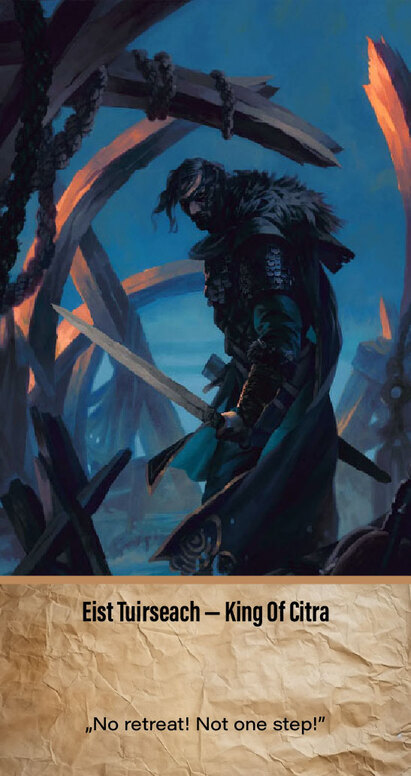
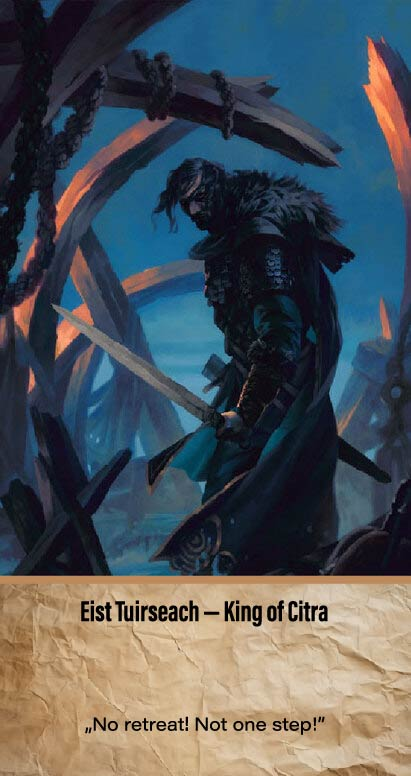
Gwent has been Polished!!

diff --git a/javascript/translations/strings/pl.js b/javascript/translations/strings/pl.js
@@ -2,7 +2,7 @@ STRNG["pl"] = {
     "TRANSLATED_BY": "DrMineword, Lambert, GamerMateusz",
     "_info": {
       "id": "Polski",
-      "translated": false, "msg": "Język Polski nie został jeszcze w pełni przetłumaczony!\n\nProsimy o cierpliwość\nNasi tłumacze: \"%s\"", tit: "Spolszczanie w trakcie!"
+      "translated": true, "msg": "Język Polski nie został jeszcze w pełni przetłumaczony!\n\nProsimy o cierpliwość\nNasi tłumacze: \"%s\"", tit: "Spolszczanie w trakcie!"
     },
   ability: {
     leader: "Zdolność Dowódcy",
@@ -658,12 +658,12 @@ STRNG["pl"] = {
     werewolf: "Wilkołak",
     wyvern: "Wywerna",
     toad: "Książę Ropuch",
-    francesca_silver: "Francesca Findabair — Queen of Dol Blathanna",
-    francesca_gold: "Francesca Findabair — the Beautiful",
-    francesca_copper: "Francesca Findabair — Daisy of the Valley",
-    francesca_bronze: "Francesca Findabair — Pureblood Elf",
-    francesca_hope_of_the_aen_seidhe:
-      "Francesca Findabair — Hope of the Aen Seidhe",
+francesca_silver: "Francesca Findabair — Królowa Dol Blathanna",
+francesca_gold: "Francesca Findabair — Piękna",
+francesca_copper: "Francesca Findabair — Stokrotka z Doliny",
+francesca_bronze: "Francesca Findabair — Czystej Krwi Elfka",
+francesca_hope_of_the_aen_seidhe:
+  "Francesca Findabair — Nadzieja Aen Seidhe",
     ciaran: "Ciaran aep Easnillien",
     barclay: "Barclay Els",
     dennis: "Dennis Cranmer",
@@ -692,16 +692,16 @@ STRNG["pl"] = {
     cerys: "Cerys",
     brokva_archer: "Łucznik klanu Brokva",
     dimun_pirate: "Pirat klanu Dimun",
-    shield_maiden_2: "Cerys — Clan Drummond Shield Maiden",
-    heymaey: "Clan Heymaey Skald",
-    tordarroch: "Clan Tordarroch Armorsmith",
-    craite_warrior: "Clan an Craite Warrior",
+    shield_maiden_2: "Cerys — Tarczowniczka klanu Drummond",
+    heymaey: "Skald klanu Heymaey",
+    tordarroch: "Płatnerz klanu Tordarroch",
+    craite_warrior: "Wojownik klanu an Craite",
     donar: "Donar an Hindar",
     draig: "Draig Bon-Dhu",
     ermion: "Ermion",
     hemdall: "Hemdall",
     hjalmar: "Hjalmar",
-    holger: "Holger Blackhand",
+    holger: "Holger Czarnoręki",
     kambi: "Kambi",
     light_longship: "Lekki Drakkar",
     madmad_lugos: "Szalony Lugos",
@@ -717,7 +717,7 @@ STRNG["pl"] = {
     crach_an_craite: "Crach an Craite",
     king_bran: "Król Bran",
     schirru: "Schirru",
-    gerry: "Żeralt znad Rzeki",
+    gerry: "Żeralt z Rzeki",
     lethosabotage: "Letho — Sabotażysta",
     aidhorn: "Sztandar Lyrii i Rivii",
     Gaunter_Leader: "Gaunter O'Dim",
@@ -738,10 +738,10 @@ STRNG["pl"] = {
     reveal_dopler: "Siły Uderzeniowe Dopplera",
     wshield: "Wiedźmini — Quen",
     quen: "Znaki Wiedźmińskie: Quen",
-    eist_tuirseach: "Eist Tuirseach — King Of Citra",
-    svalblod: "Svalblod Cult",
-    svalblod_change: "Svalblod Cult — Transformation",
-    Arnjolf_the_Patricide: "Arnjolf the Patricide",
+    eist_tuirseach: "Eist Tuirseach — Król Citry",
+    svalblod: "Kult Svalbloda",
+    svalblod_change: "Kult Svalbloda — Transformacja",
+    Arnjolf_the_Patricide: "Arnjolf Ojcobójca",
     aard: "Znaki Wiedźmińskie: Aard",
     yrden: "Znaki Wiedźmińskie: Yrden",
     igni: "Znaki Wiedźmińskie: Ignii",
@@ -766,7 +766,7 @@ STRNG["pl"] = {
     spirit: "Ascended Ancestor Spirit",
     danielle: "Dzieciuch — Danielle",
     redcrab: "Czerwony Krab",
-    crabspy: "KraboSzpieg",
+    crabspy: "Krabo-Szpieg",
     darkstorm: "Sztorm Ciemności",
     darkness_storm_leader: "Król Edenu",
     ranger: "Reassuring Ranger",
@@ -778,7 +778,7 @@ STRNG["pl"] = {
     vault_elder_s2e: "Elder of the Vault — Two Embers",
     fisstech: "Fisstech",
     sigi_reuven: "Sigi Reuven",
-    king_of_beggers: "King of Begger",
+    king_of_beggers: "Król Żebraków",
     natureguide: "Days of Nature Guide",
     naturecollab: "The Ocean Cleanup",
     skyfest: "Sky Anniversary",

diff --git a/javascript/translations/strings/en.js b/javascript/translations/strings/en.js
@@ -644,7 +644,7 @@ STRNG["en"] = {
     reveal_dopler: "Doppler Attack Force",
     wshield: "Witchers — Quen",
     quen: "Witcher Signs: Quen",
-    eist_tuirseach: "Eist Tuirseach — King Of Citra",
+    eist_tuirseach: "Eist Tuirseach — King of Citra",
     svalblod: "Svalblod Cult",
     svalblod_change: "Svalblod Cult — Transformation",
     Arnjolf_the_Patricide: "Arnjolf the Patricide",
@@ -684,7 +684,7 @@ STRNG["en"] = {
     vault_elder_s2e: "Elder of the Vault — Two Embers",
     fisstech: "Fisstech",
     sigi_reuven: "Sigi Reuven",
-    king_of_beggers: "King of Begger",
+    king_of_beggers: "King of Beggers",
     natureguide: "Days of Nature Guide",
     naturecollab: "The Ocean Cleanup",
     skyfest: "Sky Anniversary",
@@ -1136,7 +1136,7 @@ card_info: {
   unit_male: "Unit",
   hero_male: "Hero",
   unit_female: "Unit",
-  hero_female: "Hero",
+  hero_female: "Heroine",
   leader_male: "Leader",
   leader_female: "Leader",
   factionIs: "%s Faction",

diff --git a/javascript/defines.js b/javascript/defines.js
@@ -753,7 +753,7 @@ let card_name_class = {
   guard: "guard_%g",
   fisstech: "special_%g",
   sigi_reuven: "spy_%g",
-  king_of_beggers: "spy_%g",
+  king_of_beggers: "rottenfruit_%g",
   magister: "assasin_%g",
   "custom!power_place": "magic_%g",
   "custom!m_moonlight": "event_%g",
